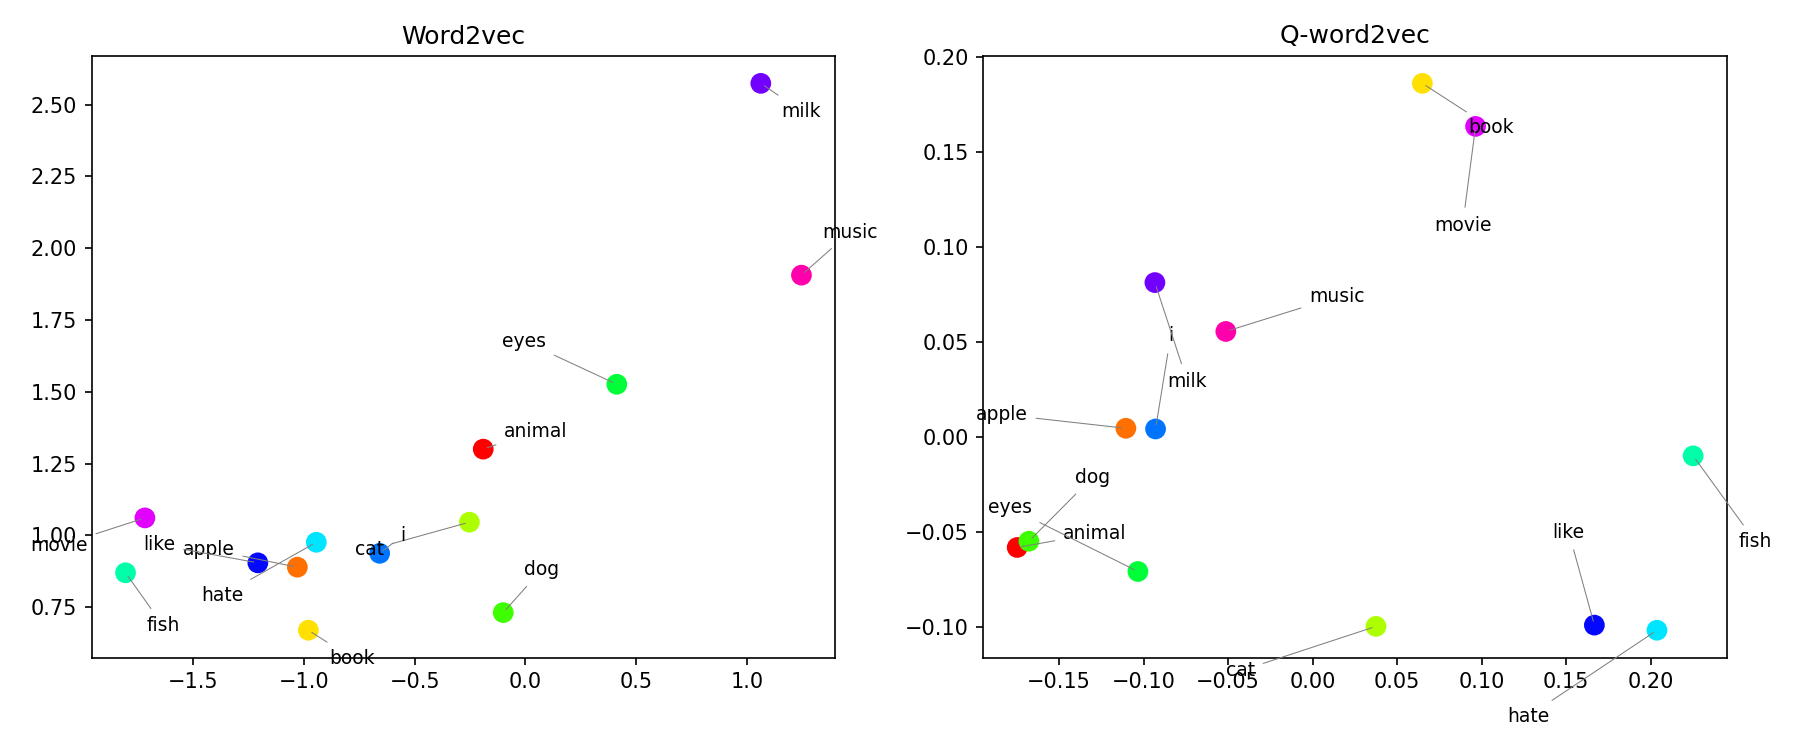
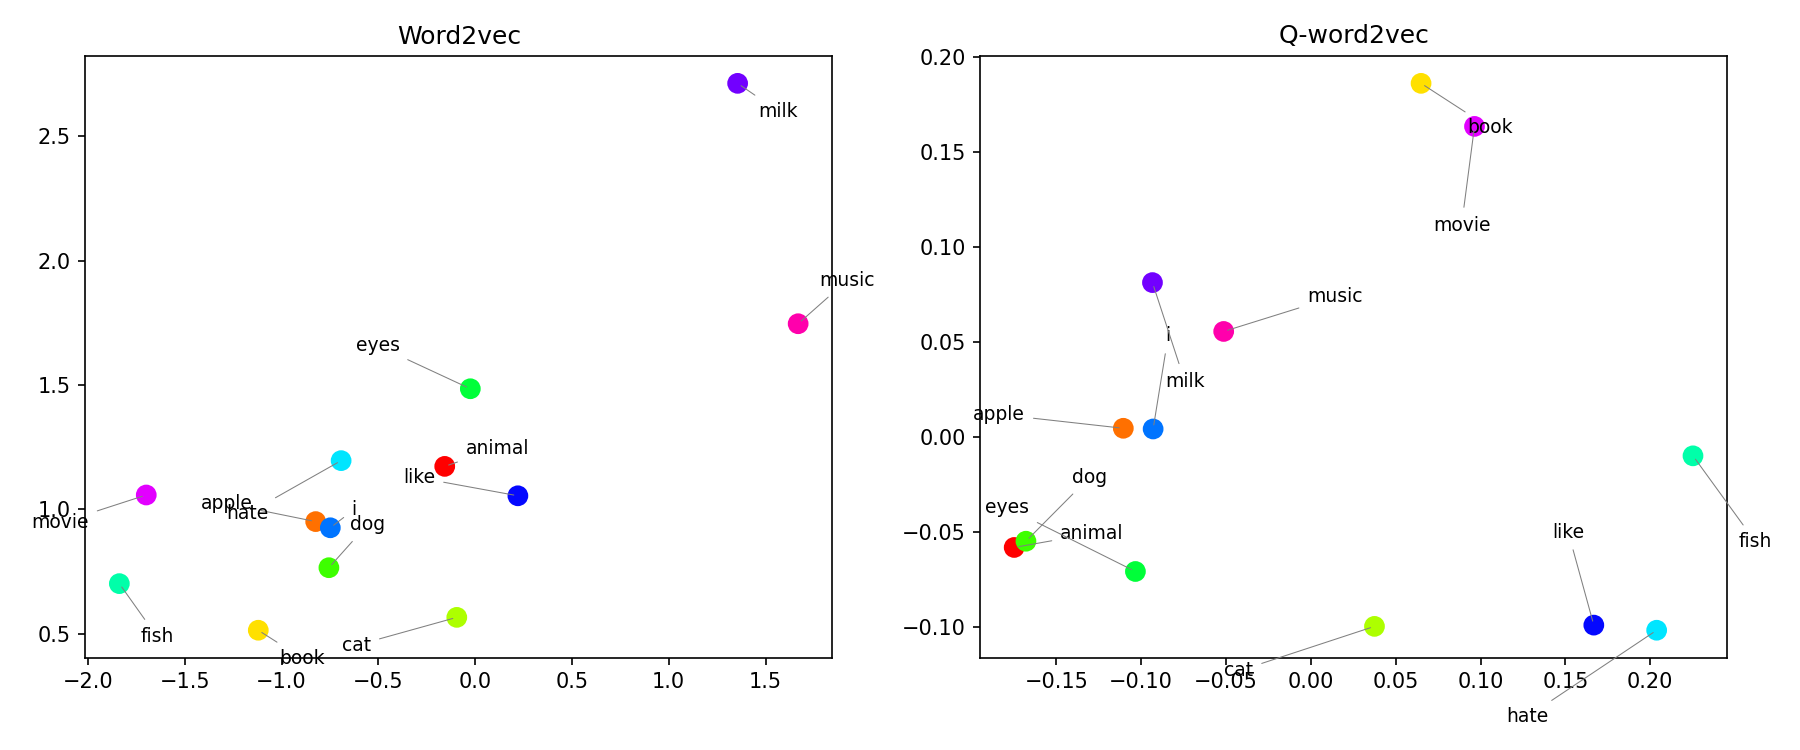
Segunda version de word2vec hecha para preguntar

diff --git a/Practice/word2vec.py b/Practice/word2vec.py
@@ -48,12 +48,16 @@ def evaluate(model):
 
 
 class LossCallback(CallbackAny2Vec):
-    """Callback que usa el loss real de cada época como criterio de early stopping.
+    """Callback que calcula el loss por época sin interferir en Gensim.
 
-    Truco necesario con Gensim: `running_training_loss` se acumula desde el
-    inicio del entrenamiento.  Reseteándolo a 0 en `on_epoch_begin`, al leer
-    `get_latest_training_loss()` en `on_epoch_end` obtenemos el loss de esa
-    época concreta.
+    Gensim acumula `running_training_loss` a lo largo de todo el entrenamiento.
+    En lugar de resetearlo (que podría interferir con el estado interno),
+    calculamos el loss de cada época como:
+
+        loss_época = acumulado_ahora - acumulado_época_anterior
+
+    Es aritméticamente equivalente al reset pero sin tocar ningún atributo
+    interno de la librería.
 
     Early stopping: guardamos checkpoint cuando el loss de la época es menor
     que el mejor hasta ahora (MIN_DELTA de margen).  Las épocas que Gensim
@@ -64,9 +68,10 @@ class LossCallback(CallbackAny2Vec):
     """
 
     def __init__(self):
-        self._epoch = 0
-        self.train_losses = []          # loss por época
-        self._best_loss = float("inf")  # queremos minimizar el loss
+        self._epoch = 0               # épocas reales de Gensim
+        self.train_losses = []        # (epoch_gensim, loss) solo para épocas válidas
+        self._cumulative_prev = 0.0   # acumulado al final de la época anterior
+        self._best_loss = float("inf")
         self._no_improve_count = 0
         self.converged_at = None
         self.best_epoch = None
@@ -75,51 +80,52 @@ class LossCallback(CallbackAny2Vec):
         self._loss_file = open(LOSS_FILE, "w")
         self._loss_file.write("epoch,loss\n")
 
-    def on_epoch_begin(self, model):
-        # Resetear el acumulador → get_latest_training_loss() dará solo esta época
-        model.running_training_loss = 0.0
+    # ── Sin on_epoch_begin: no tocamos ningún atributo interno de Gensim ──────
 
     def on_epoch_end(self, model):
         self.model = model
         self._epoch += 1
 
-        epoch_loss = model.get_latest_training_loss()
-        self.train_losses.append(epoch_loss)
+        # Loss de esta época = diferencia de acumulados
+        cumulative_now = model.get_latest_training_loss()
+        epoch_loss = cumulative_now - self._cumulative_prev
+        self._cumulative_prev = cumulative_now
 
-        if self._epoch % PRINT_EVERY == 0 or self._epoch == 1:
-            # Ignorar épocas con loss=0 (Gensim no procesó pares válidos)
-            if epoch_loss == 0.0:
-                print(
-                    f"  época {self._epoch:>6} | loss = {'0.0000':>10}  [sin pares]"
-                    f"  (sin_mejora={self._no_improve_count}/{PATIENCE})"
-                )
-                self._loss_file.write(f"{self._epoch},0.0\n")
-                self._loss_file.flush()
-                return
+        # Guardar solo épocas válidas (para las gráficas)
+        if epoch_loss > 0.0:
+            self.train_losses.append((self._epoch, epoch_loss))
 
-            # ¿El loss mejora (baja)?
-            if epoch_loss < self._best_loss - MIN_DELTA:
-                self._best_loss = epoch_loss
-                self._no_improve_count = 0
-                model.save(self._best_checkpoint)
-                self.best_epoch = self._epoch
-                improved_tag = " (new best)"
-            else:
-                self._no_improve_count += 1
-                improved_tag = ""
+        # Solo actuar en múltiplos exactos de PRINT_EVERY (10, 20, 30...)
+        if self._epoch % PRINT_EVERY != 0:
+            return
 
-            self._loss_file.write(f"{self._epoch},{epoch_loss:.6f}\n")
-            self._loss_file.flush()
-            print(
-                f"  época {self._epoch:>6} | loss = {epoch_loss:>10.4f}{improved_tag}"
-                f"  (sin_mejora={self._no_improve_count}/{PATIENCE})"
+        # Si en esta época Gensim no procesó pares, la saltamos en silencio
+        if epoch_loss == 0.0:
+            return
+
+        # ¿El loss mejora (baja)?
+        if epoch_loss < self._best_loss - MIN_DELTA:
+            self._best_loss = epoch_loss
+            self._no_improve_count = 0
+            model.save(self._best_checkpoint)
+            self.best_epoch = self._epoch
+            improved_tag = " (new best)"
+        else:
+            self._no_improve_count += 1
+            improved_tag = ""
+
+        self._loss_file.write(f"{self._epoch},{epoch_loss:.6f}\n")
+        self._loss_file.flush()
+        print(
+            f"  época {self._epoch:>6} | loss = {epoch_loss:>10.4f}{improved_tag}"
+            f"  (sin_mejora={self._no_improve_count}/{PATIENCE})"
+        )
+
+        if self._no_improve_count >= PATIENCE:
+            self.converged_at = self._epoch
+            raise EarlyStopping(
+                f"Sin mejora en {PATIENCE} comprobaciones — parada en época {self._epoch}"
             )
-
-            if self._no_improve_count >= PATIENCE:
-                self.converged_at = self._epoch
-                raise EarlyStopping(
-                    f"Sin mejora en {PATIENCE} comprobaciones — parada en época {self._epoch}"
-                )
 
     def on_train_end(self, model):
         self._loss_file.close()
@@ -198,23 +204,16 @@ if __name__ == "__main__":
     # Figura 1: curvas de entrenamiento
     fig1, ax0 = plt.subplots(figsize=(8, 6))
 
-    # Curva de train loss en los checkpoints (cada PRINT_EVERY épocas)
-    # Filtramos épocas con loss=0 para no deformar la gráfica
-    ck_epochs = list(range(PRINT_EVERY, loss_cb._epoch + 1, PRINT_EVERY))
-    if loss_cb._epoch not in ck_epochs and loss_cb._epoch > 0:
-        ck_epochs.append(loss_cb._epoch)
-    ck_losses = [
-        loss_cb.train_losses[e - 1]
-        for e in ck_epochs
-        if e - 1 < len(loss_cb.train_losses)
-    ]
-    ck_epochs = ck_epochs[: len(ck_losses)]
-    # Quitar pares donde loss==0
-    pairs = [(e, l) for e, l in zip(ck_epochs, ck_losses) if l > 0]
-    if pairs:
-        ck_epochs_f, ck_losses_f = zip(*pairs)
+    # train_losses contiene solo épocas válidas: [(epoch_gensim, loss), ...]
+    if loss_cb.train_losses:
+        all_epochs, all_vals = zip(*loss_cb.train_losses)
     else:
-        ck_epochs_f, ck_losses_f = [], []
+        all_epochs, all_vals = [], []
+
+    # Puntos de la gráfica: épocas múltiplo de PRINT_EVERY con loss > 0
+    pairs_ck = [(e, l) for e, l in zip(all_epochs, all_vals) if e % PRINT_EVERY == 0]
+    ck_epochs_f = [e for e, _ in pairs_ck]
+    ck_losses_f = [l for _, l in pairs_ck]
 
     if ck_losses_f:
         ax0.plot(
@@ -236,30 +235,9 @@ if __name__ == "__main__":
             )
         ax0.legend(fontsize=8)
 
-    ax0.set_title("Train loss per checkpoint epoch\n(lower = better)")
-    ax0.set_xlabel("Epoch")
+    ax0.set_title("Train loss per valid epoch\n(lower = better)")
+    ax0.set_xlabel("Epoch (Gensim)")
     ax0.set_ylabel("Loss")
-
-    # Curva completa (todas las épocas, en segundo eje) — también sin los 0
-    all_losses_nz = [(i + 1, l) for i, l in enumerate(loss_cb.train_losses) if l > 0]
-    if all_losses_nz:
-        stride = max(1, len(all_losses_nz) // 200)
-        all_losses_nz = all_losses_nz[::stride]
-        train_epochs_all, train_vals_all = zip(*all_losses_nz)
-    else:
-        train_epochs_all, train_vals_all = [], []
-
-    ax0b = ax0.twinx()
-    ax0b.plot(
-        train_epochs_all,
-        train_vals_all,
-        color="steelblue",
-        linewidth=0.6,
-        alpha=0.35,
-        label="train loss (all epochs)",
-    )
-    ax0b.set_ylabel("Loss (all epochs)", color="steelblue", fontsize=8)
-    ax0b.tick_params(axis="y", labelcolor="steelblue", labelsize=7)
 
     fig1.tight_layout()
     fig1.savefig("lossCurvesWord2Vec.png", dpi=150)